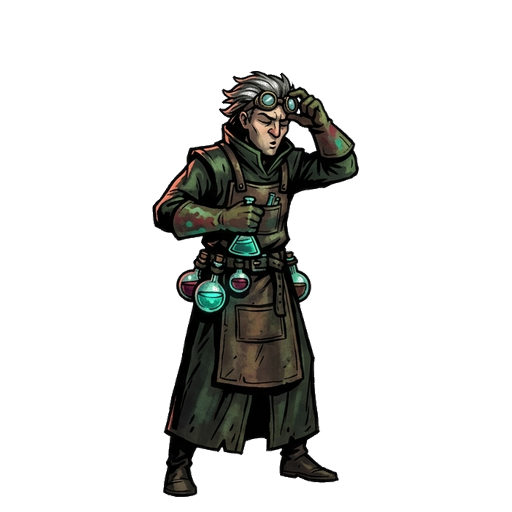
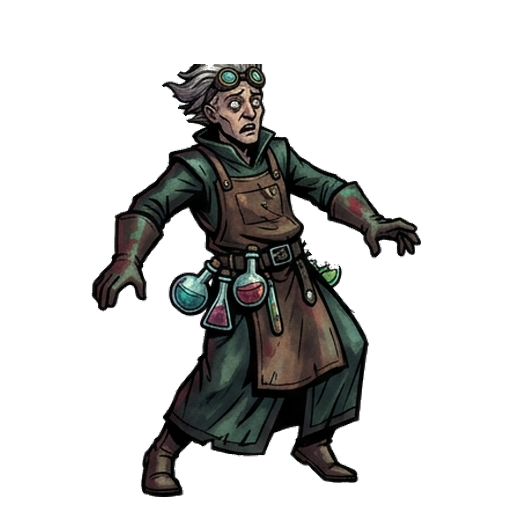
Upgrade hurt animations from 4 to 6 frames for smoother animation
- Regenerated hurt sprite sheets for 5 entities: wanderer, alchemist, puppeteer, molten-golem, dark-enchantress
- Updated generation-tasks.json with 6-frame descriptions for all hurt actions
- Fixed process_sheet.py layout detection to handle 3×2 and 4×2 portrait grids
- Total frames: 236 (up from 226), minimum 6 frames per action

Changed region(s): [[0.1562, 0.125, 0.8438, 0.9688]]

diff --git a/process_sheet.py b/process_sheet.py
@@ -32,12 +32,20 @@ def detect_layout(img, num_frames):
             return (2, 2)
         return (1, 4)
     elif num_frames == 6:
+        # Check 2×3 (2 rows, 3 cols) first
         if has_horizontal_white_band(h // 2):
             return (2, 3)
+        # Check 3×2 (3 rows, 2 cols) for portrait images
+        if has_horizontal_white_band(h // 3):
+            return (3, 2)
         return (1, 6)
     elif num_frames == 8:
+        # Check 2×4 first
         if has_horizontal_white_band(h // 2):
             return (2, 4)
+        # Check 4×2 for portrait images
+        if has_horizontal_white_band(h // 4):
+            return (4, 2)
         return (1, 8)
     elif num_frames == 3:
         return (1, 3)
